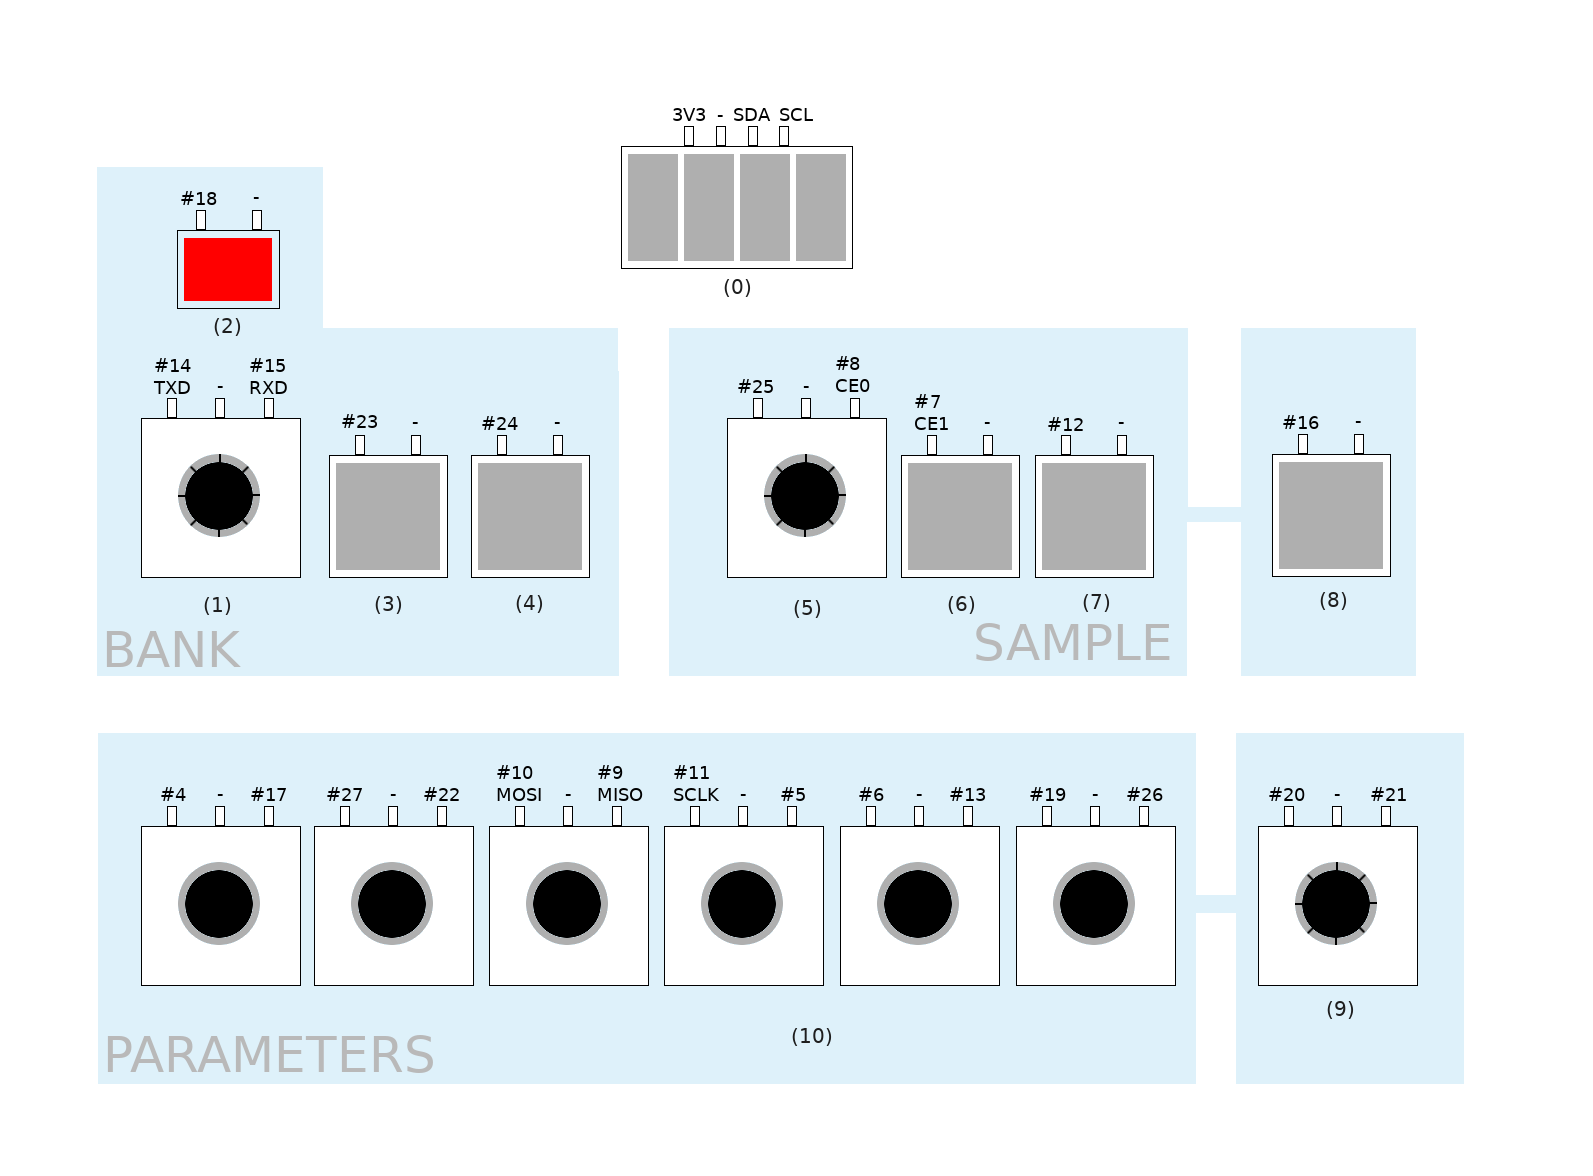
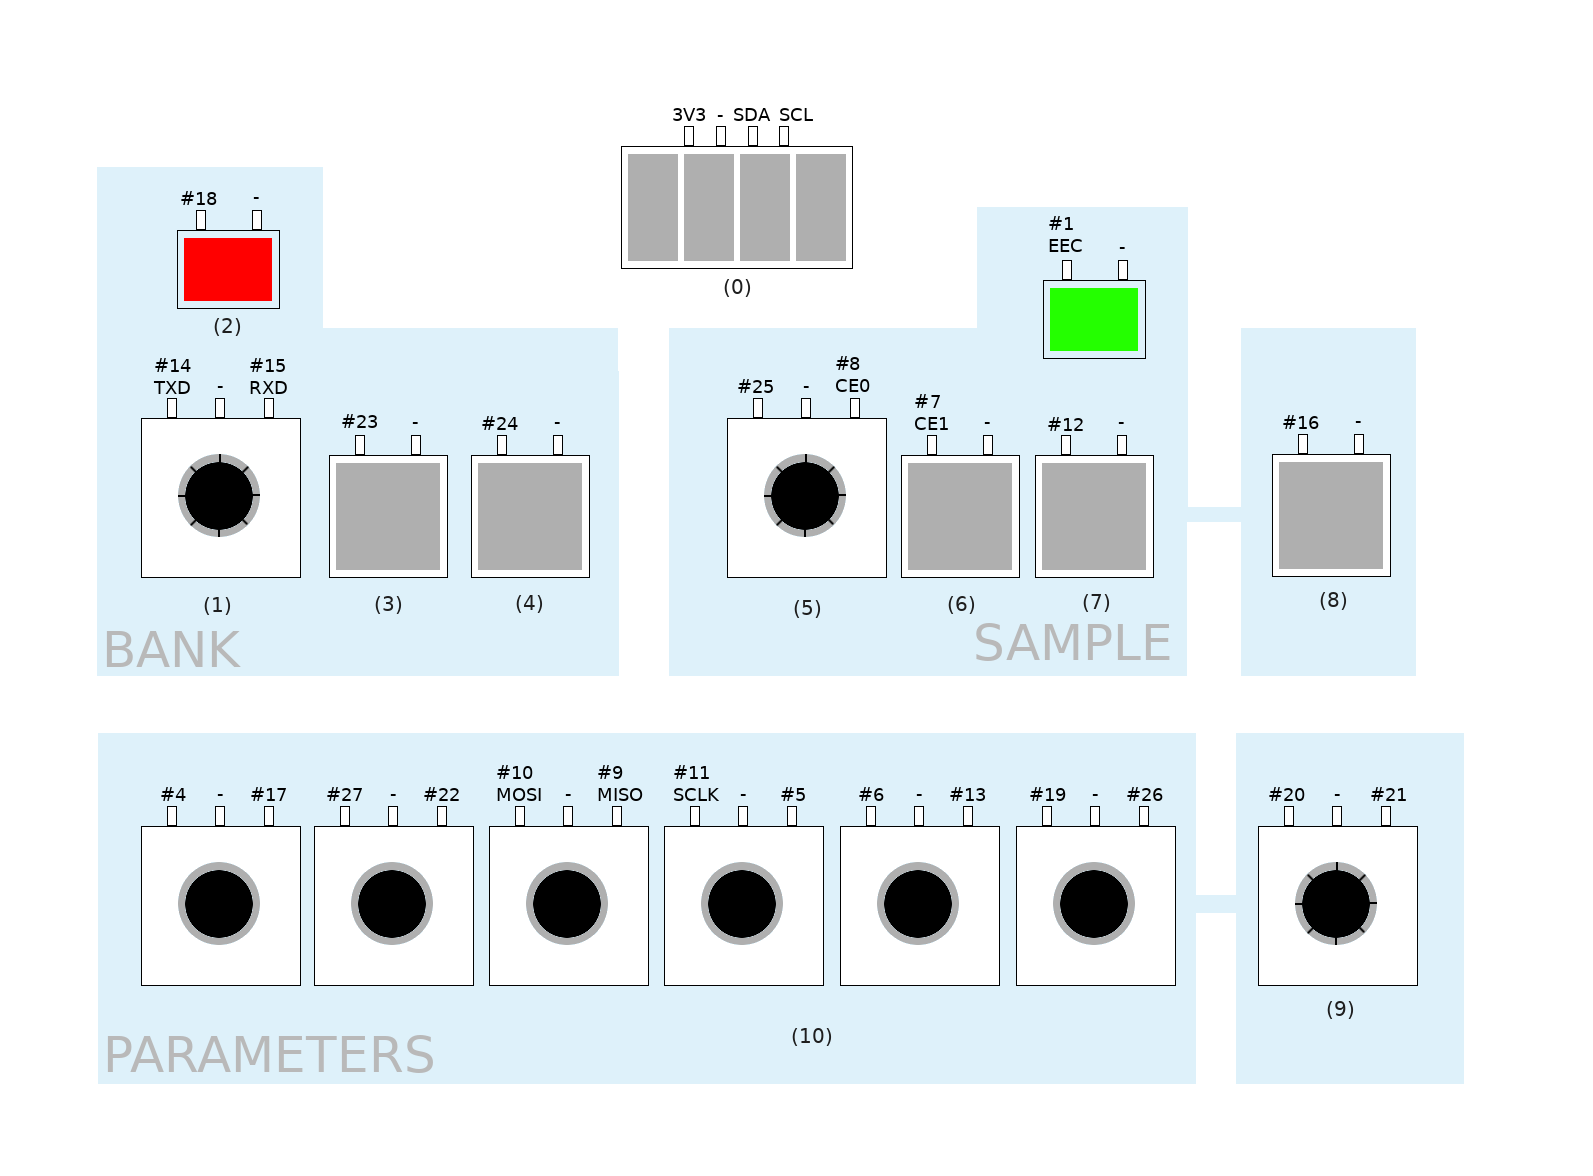
Add led to display midi status

Changed region(s): [[0.6152, 0.1531, 0.769, 0.3061]]

diff --git a/src/controller.cpp b/src/controller.cpp
@@ -26,6 +26,7 @@ Controller::Controller() :
     _SampleSelect = new KnobSelect(0, PIN_SAMPLE_SELECT_LEFT, PIN_SAMPLE_SELECT_RIGHT);
     _SampleMode = new Button(PIN_SAMPLE_MODE);
     _SampleMidiSet = new Button(PIN_SAMPLE_MIDI_SET);
+    _SampleMidiStatus = new Led(PIN_SAMPLE_MIDI_STATUS);
 
     _SamplePlay = new Button(PIN_SAMPLE_PLAY);
 
@@ -56,6 +57,7 @@ Controller::~Controller()
 
     delete _SamplePlay;
 
+    delete _SampleMidiStatus;
     delete _SampleMidiSet;
     delete _SampleMode;
     delete _SampleSelect;
@@ -302,6 +304,8 @@ void Controller::_OnStopSample()
 
 void Controller::_UpdateControls()
 {
+    _SampleMidiStatus->SetOn(!_Sample->GetMidiKey().IsNull());
+
     for (int i=0 ; i<_Controls.size() ; ++i)
     {
         int id = _ControlSelect->GetID()*6+i;

diff --git a/src/raspberry_pins.h b/src/raspberry_pins.h
@@ -3,7 +3,8 @@
 
 #include <bcm2835.h>
 
-//#define RPI_PIN_01      RPI_V2_GPIO_P1_28   // EEC
+#define RPI_PIN_00      0 //RPI_V2_GPIO_P1_27   // EED
+#define RPI_PIN_01      1 //RPI_V2_GPIO_P1_28   // EEC
 #define RPI_PIN_04      RPI_V2_GPIO_P1_07   // . GPCLK0
 #define RPI_PIN_05      RPI_V2_GPIO_P1_29
 #define RPI_PIN_06      RPI_V2_GPIO_P1_31

diff --git a/src/raspberry.h b/src/raspberry.h
@@ -15,6 +15,7 @@
 #define PIN_SAMPLE_SELECT_RIGHT     RPI_PIN_25
 #define PIN_SAMPLE_MODE             RPI_PIN_07
 #define PIN_SAMPLE_MIDI_SET         RPI_PIN_12
+#define PIN_SAMPLE_MIDI_STATUS      RPI_PIN_01
 
 #define PIN_SAMPLE_PLAY             RPI_PIN_16
 

diff --git a/src/controller.h b/src/controller.h
@@ -53,6 +53,7 @@ private:
     KnobSelect* _SampleSelect;
     Button* _SampleMode;
     Button* _SampleMidiSet;
+    Led* _SampleMidiStatus;
 
     Button* _SamplePlay;
     bool _AttachMidi;

diff --git a/README.md b/README.md
@@ -52,6 +52,8 @@ Sample :
      If you switch another control before a note is received, it just cancel the tap. 
    - tap it two time to detach it 
 
+    The green LED displays if the sample is attached.
+
 (8) play 
  
 (9) select parameters to assign to the (10) knobs : 
